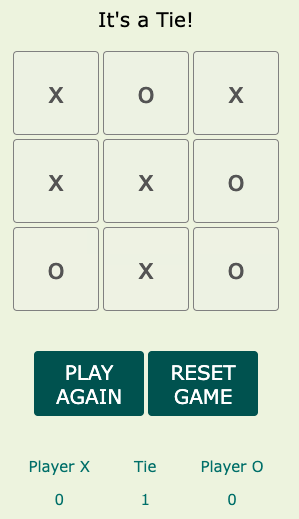
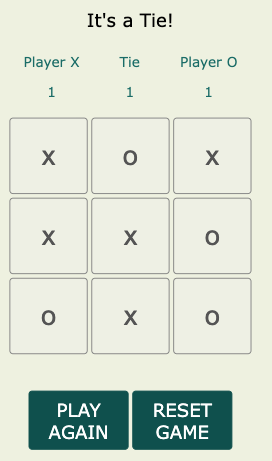
Update images in README.md that has the old version of scoreboard beneath board

diff --git a/README.md b/README.md
@@ -48,6 +48,11 @@ Link to live page, click [here!](https://matzhedman.github.io/project_2/)
 
 ![Game instruction close button](/assets/images/pp2_modal_close_button.png)
 
+#### Scoreboard
+* Above the board you'll find a Scoreboard that keeps the score of both Player X and Player O, but also if it's a Tie.
+
+![Scoreboard](/assets/images/pp2_scoreboard.png)
+
 #### The board
 * A 3 x 3 board that will be blank when the page is loaded the first time.
 
@@ -60,10 +65,7 @@ Link to live page, click [here!](https://matzhedman.github.io/project_2/)
 
 ![Buttons](/assets/images/pp2_buttons.png)
 
-#### Scoreboard
-* At the bottom of the page you'll find a Scoreboard that keeps the score of both Player X and Player O, but also if it's a Tie.
 
-![Scoreboard](/assets/images/pp2_scoreboard.png)
 
 ### Features left to implement
 * A feature of switching Player X/Player O to start the game.
@@ -100,7 +102,7 @@ In this game with 3 x 3 tiles, there is Eight (8) different winning conditions
 #### Examples of three scenarios
 * Player X wins
 
-![Player X wins](/assets/images/pp2_x_wins2.png)
+![Player X wins](/assets/images/pp2_x_wins.png)
 
 * Player O wins
 
